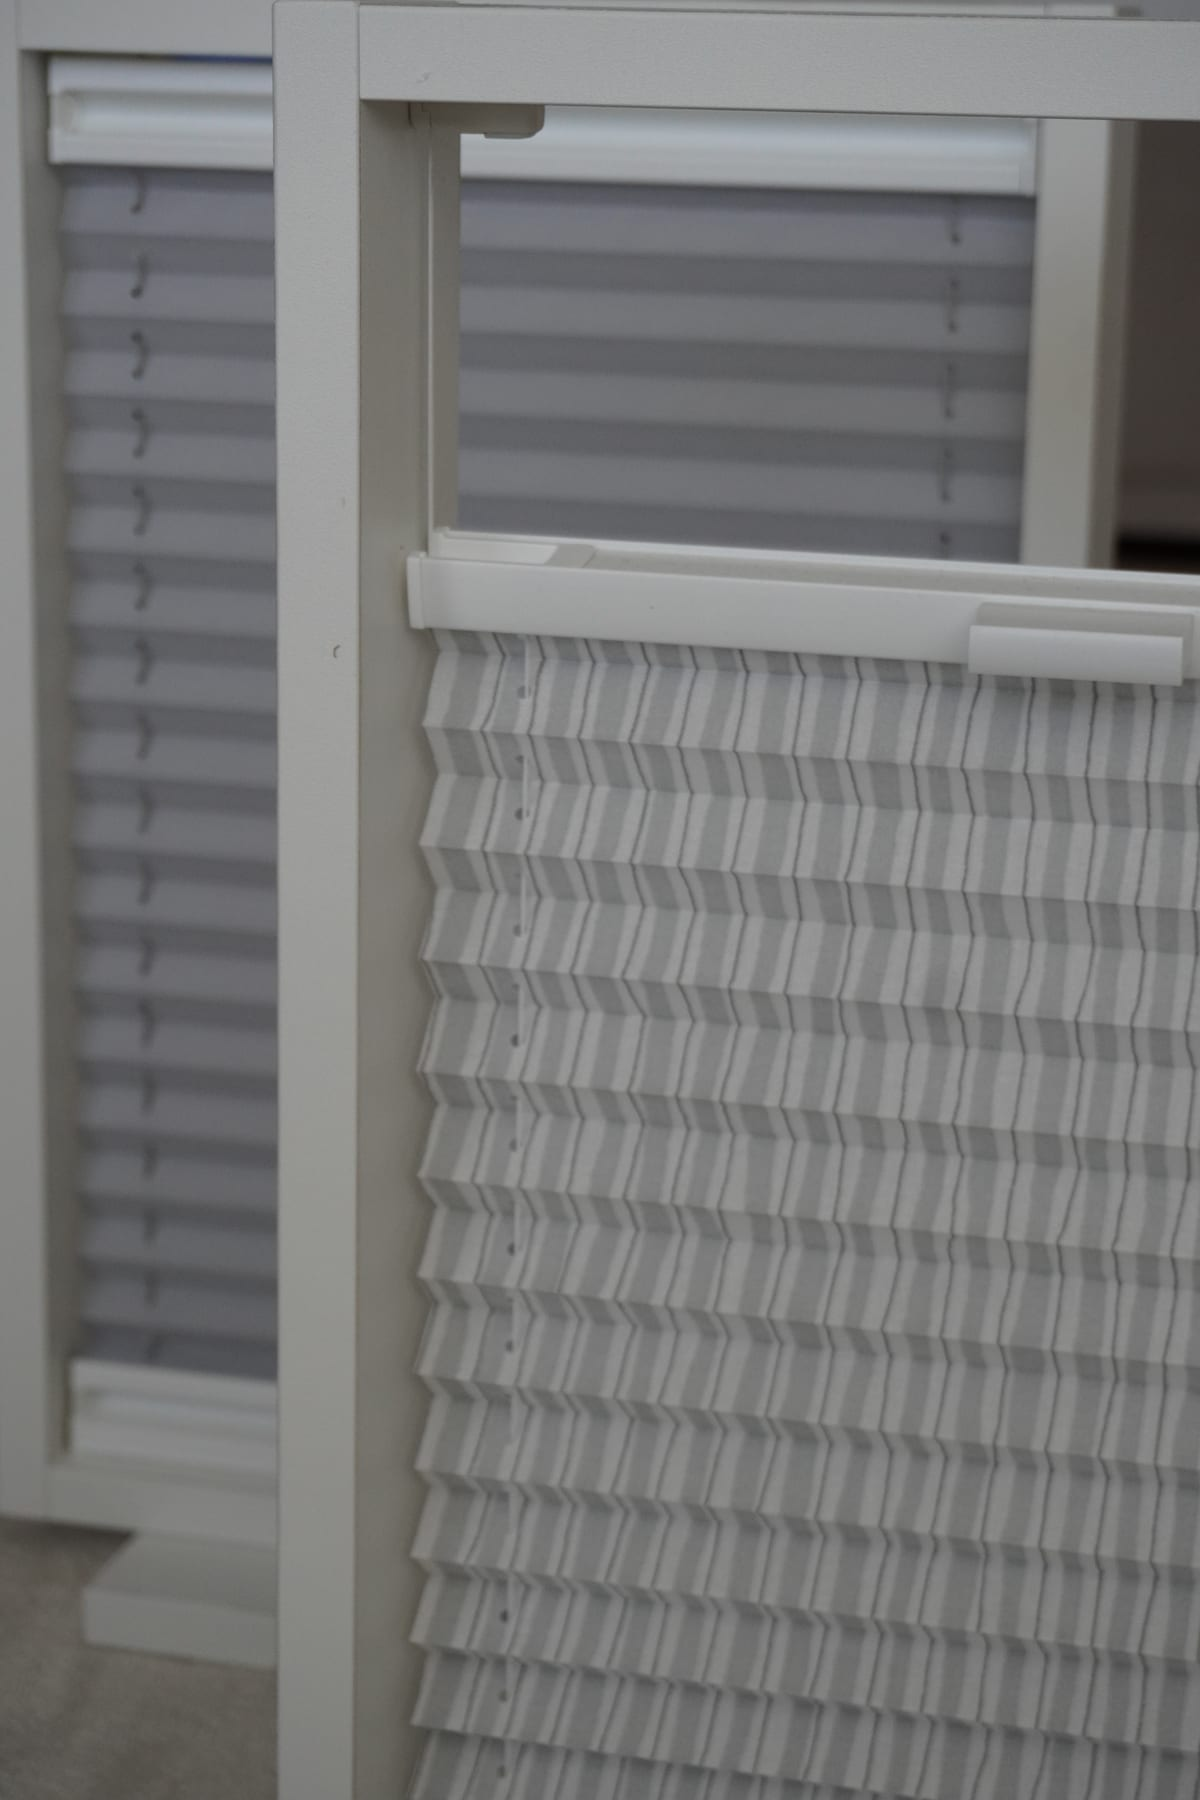
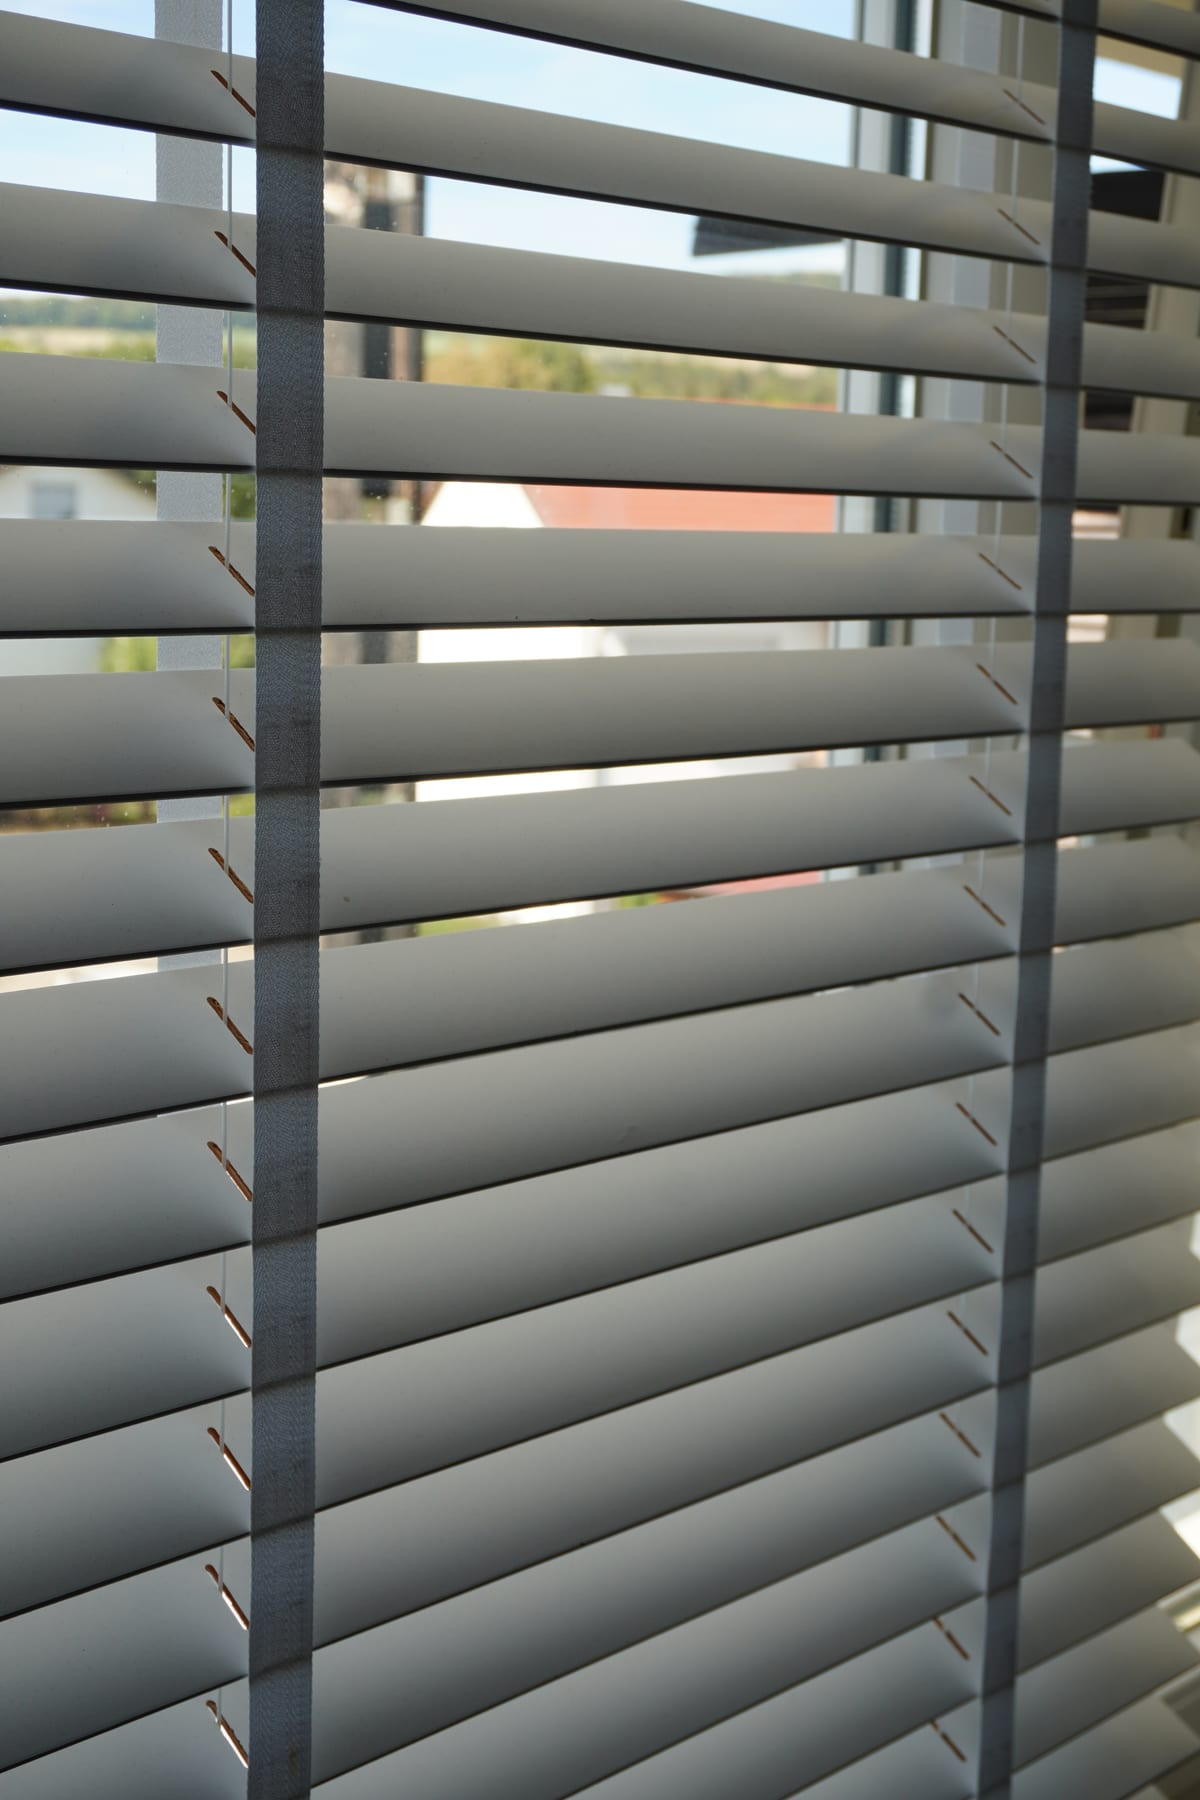
Ordne die Fotos von Plissee und Jalousie den richtigen Abschnitten zu
Das Foto aus dem vorigen Commit zeigt Plissees und steht jetzt bei
Abschnitt 02. Abschnitt 04 bekommt eine echte Jalousie mit breiten
Lamellen und Leiterband. Beide Alternativtexte benennen wieder das, was
zu sehen ist.

Das neue Foto kam als jalousien.JPG mit grossem Dateisuffix aus der
Kamera. Unter Windows faellt das nicht auf, auf einem Linux-Server aber
schon, weil dort jalousien.jpg aus den Abschnittsdaten nicht mehr
gefunden wuerde. Der Name ist deshalb wieder klein geschrieben. Wie beim
Plissee-Foto sind Groesse (1200 Pixel Breite) und Drehung in die Pixel
uebernommen, das Original liegt unter wohnatelier-originalbilder.

diff --git a/data/sections.ts b/data/sections.ts
@@ -25,7 +25,7 @@ export const sections: Section[] = [
     eyebrow: "Für schräge und schwierige Fenster",
     body: "Dachschräge, Trapez, Rundbogen – Plissees sitzen dort, wo klassische Vorhänge an ihre Grenzen kommen. Sie lassen sich von oben und von unten verschieben, sodass Licht hereinkommt und Blicke draußen bleiben. Wabenplissees dämmen zusätzlich im Winter.",
     image: "/images/plissees.jpg",
-    alt: "Plissee an einem Dachfenster, halb geöffnet",
+    alt: "Plissees an zwei Fenstern, zur Hälfte geschlossen",
   },
   {
     id: "rollos",
@@ -43,7 +43,7 @@ export const sections: Section[] = [
     eyebrow: "Licht stufenlos dosieren",
     body: "Der Klassiker für Räume, in denen sich das Licht über den Tag verändert. Über die Lamellenstellung regeln Sie die Helligkeit stufenlos, ohne den Blick nach draußen aufzugeben. In Aluminium für Bad und Küche, in Holz für Wohnräume.",
     image: "/images/jalousien.jpg",
-    alt: "Helle Jalousien an zwei Fenstern, Lamellen schräg gestellt",
+    alt: "Jalousie mit breiten Lamellen und Leiterband, schräg gestellt",
   },
   {
     id: "vorhangschiene",
